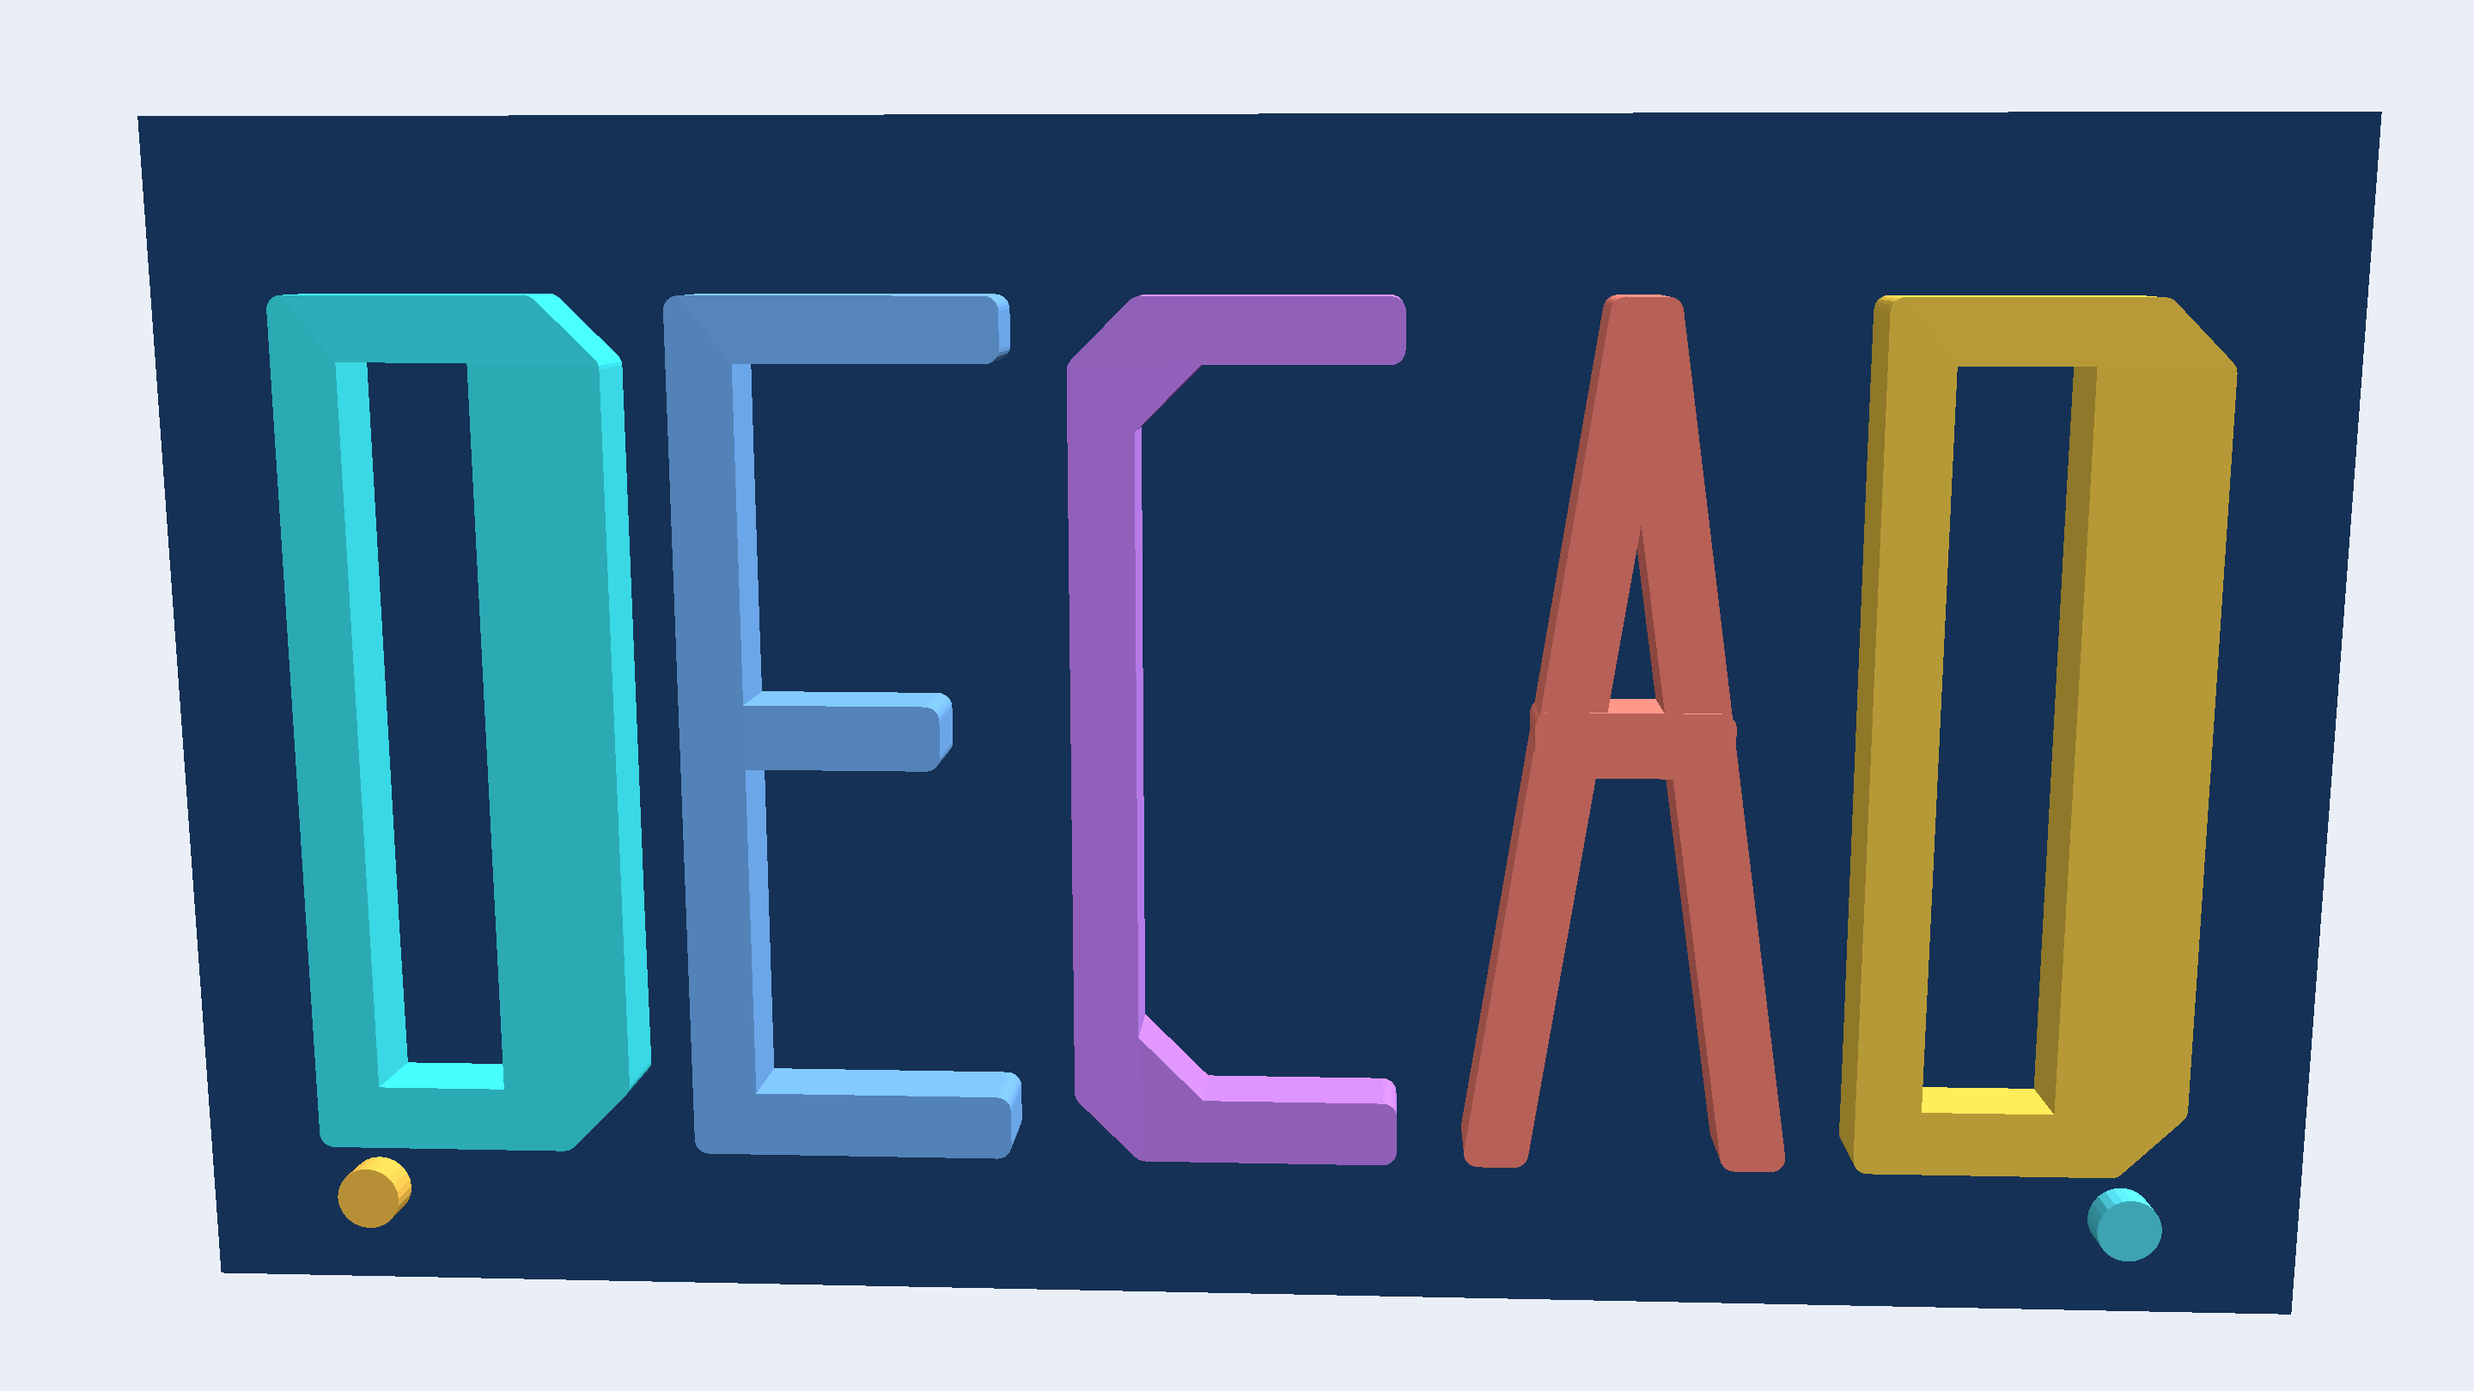
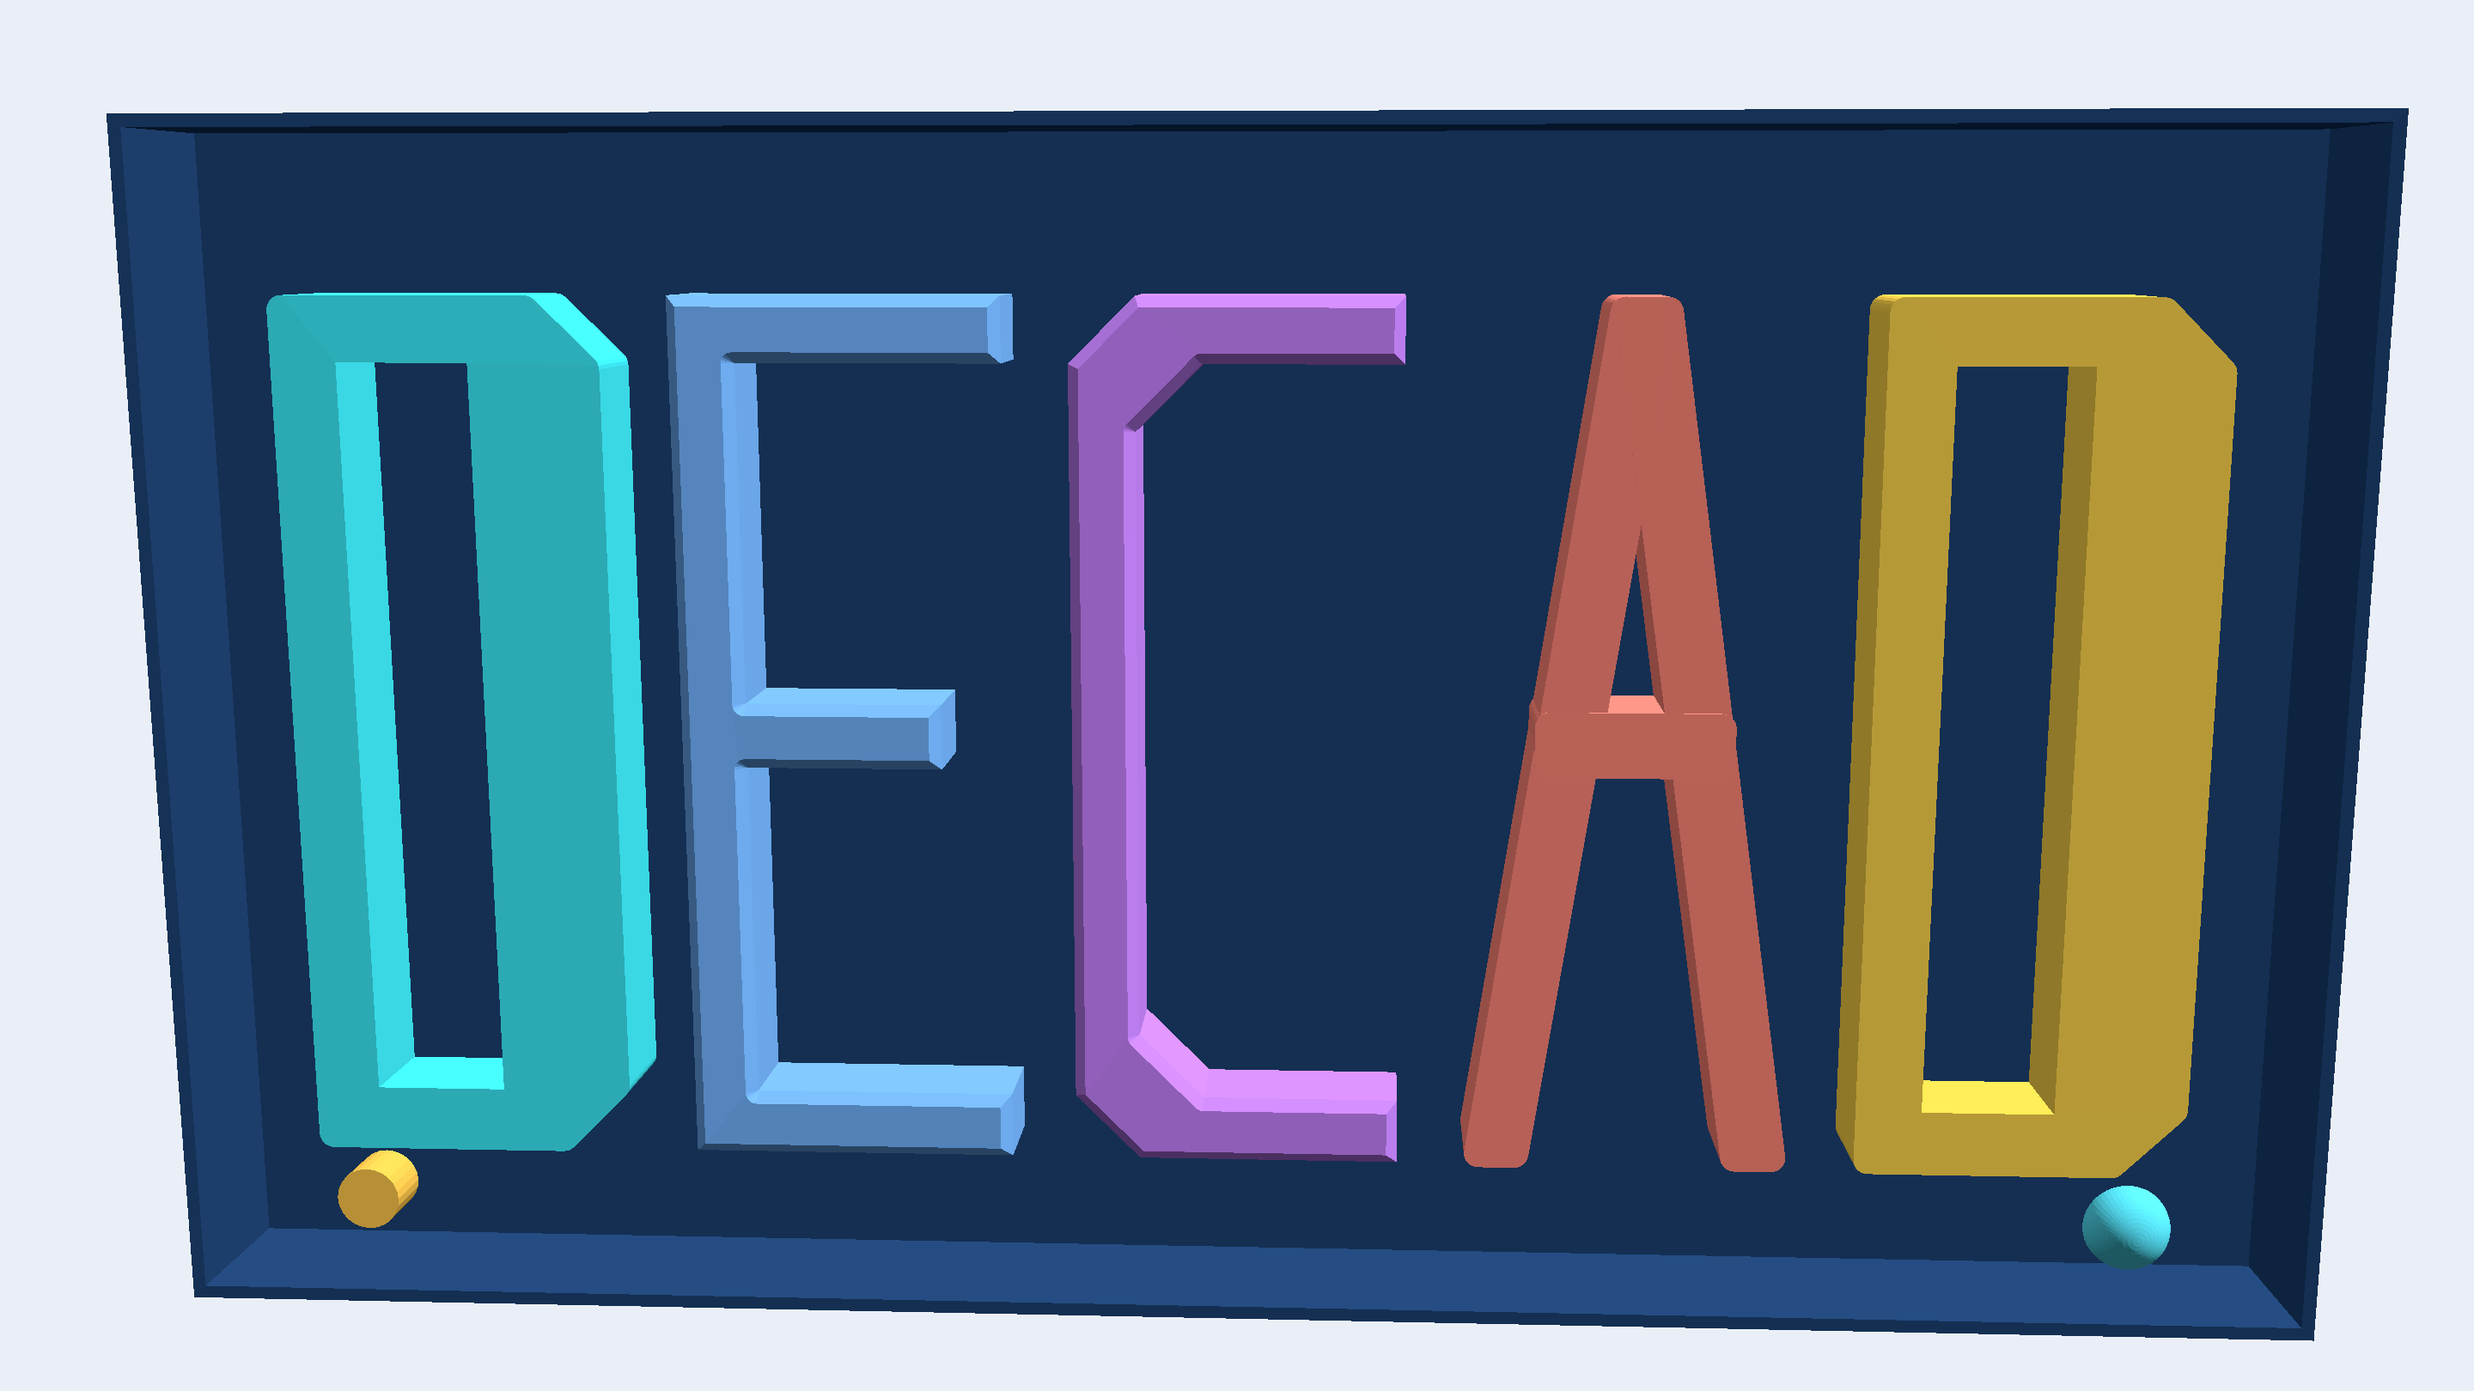
enrich the hero wordmark with more decad features (#322)
* enrich the hero wordmark with more decad features

* fix hero rail placement and the A letter overlap

* drop the swept rail from the hero image

diff --git a/_gallery/hero.go b/_gallery/hero.go
@@ -11,19 +11,51 @@ import (
 	"github.com/lestrrat-3d/units"
 )
 
-const letterFilletRadius = 2.0
+const (
+	letterFilletRadius = 2.0
+	// letterCapChamfer is the setback of the cap-loop bevel every letter's
+	// front face carries, well under half the 9mm stroke width so the bevel
+	// reads as a lead-in rather than eating the stroke.
+	letterCapChamfer = 1.5
+
+	// plateDepth is the backing plate's total thickness before shelling.
+	plateDepth = 12.0
+	// plateShellThickness is the wall Shell leaves once the plate's
+	// camera-facing cap is opened.
+	plateShellThickness = 1.8
+	// plateHalfDepth is the plate's front face position along Y (Along on
+	// its XZ sketch is -Y, so the face nearest the camera sits at -plateHalfDepth).
+	plateHalfDepth = plateDepth / 2
+
+	// studRadius is the revolved dome accent's radius.
+	studRadius = 6.0
+)
 
 type letter struct {
 	color  solidlens.Color
 	shapes [][][]point
+	// chamferCap is true for a letter whose shapes should get a cap-loop
+	// chamfer instead of a lateral fillet. It is a per-LETTER choice, not a
+	// per-shape one: A's three strokes (aLeft, aRight, aBar) are each a
+	// single, hole-free loop, but the crossbar's own rectangle overlaps each
+	// leg's trapezoid — both occupy the same X range at crossbar height AND
+	// the same Y depth, by the original (pre-hero-rework) design of these
+	// three shapes. Two bodies that already coincide there is not itself a
+	// defect; it only became visible once each stroke got its OWN
+	// independent cap-loop chamfer: the two bevelled cap faces are different
+	// sloped surfaces at that shared depth, so whichever one the renderer
+	// resolves as farther back shows a sliver of its slope past the nearer
+	// one's edge. A lateral fillet never touches the cap face's interior, so
+	// it never exposes this — the same reason D (a hole-bearing single
+	// shape) keeps a fillet instead of a chamfer.
+	chamferCap bool
 }
 
 // heroChordTolerance is the chord tolerance the hero shot tessellates at
 // unless -chord overrides it.
 const heroChordTolerance = 0.02
 
-// heroRender is the README's masthead: the wordmark itself is decad geometry,
-// each letter an extruded profile with its outside corners filleted.
+// heroRender is the README's masthead: the wordmark itself is decad geometry.
 func heroRender() imageRender {
 	return imageRender{
 		rel:      "hero.png",
@@ -33,38 +65,47 @@ func heroRender() imageRender {
 	}
 }
 
+// heroScene builds the masthead from five of decad's features rather than
+// extrude and fillet alone: the backing plate is a shelled shadow-box whose
+// rim carries a real wall thickness; "E" and "C" are extruded and have their
+// whole front face bevelled by a cap-loop chamfer, while "D" (an outer+inner
+// loop pair) and "A" (three separately overlapping strokes) are extruded and
+// have their outside corners filleted instead (see letter.chamferCap and
+// extrudeLetterLoops for why each keeps the fillet); and one accent is a
+// revolved dome rather than a plain extruded cylinder.
 func heroScene(ctx context.Context, chord units.Value) (solidlens.Scene, error) {
-	base, err := extrudeLoops(ctx, [][]point{rectangle(-151, -84, 151, 84)}, decad.Symmetric{D: units.Millimeters(3)}, chord)
+	base, err := heroPlate(ctx, chord)
 	if err != nil {
 		return solidlens.Scene{}, fmt.Errorf("build backing plate: %w", err)
 	}
 	models := []solidlens.Model{{Mesh: base, Material: solidlens.Matte(solidlens.RGB(0.015, 0.06, 0.18))}}
 
-	for _, item := range decadLetters() {
-		for _, shape := range item.shapes {
-			mesh, err := extrudeLetterLoops(ctx, shape, decad.Distance{D: units.Millimeters(14), Dir: decad.Along}, chord)
+	for li, item := range decadLetters() {
+		for si, shape := range item.shapes {
+			mesh, err := extrudeLetterLoops(ctx, shape, decad.Distance{D: units.Millimeters(14), Dir: decad.Along}, chord, item.chamferCap)
 			if err != nil {
-				return solidlens.Scene{}, fmt.Errorf("build letter: %w", err)
+				return solidlens.Scene{}, fmt.Errorf("build letter %d shape %d: %w", li, si, err)
 			}
 			models = append(models, solidlens.Model{Mesh: mesh, Material: solidlens.Matte(item.color)})
 		}
 	}
 
-	for _, accent := range []struct {
-		x, y, radius float64
-		color        solidlens.Color
-	}{
-		{-126, -70, 4.5, solidlens.RGB(1, 0.58, 0.08)},
-		{126, -70, 4.5, solidlens.RGB(0.1, 0.78, 0.95)},
-	} {
-		mesh, err := extrudeLoops(ctx, [][]point{circle(accent.x, accent.y, accent.radius, 24)}, decad.Distance{
-			D: units.Millimeters(8), Dir: decad.Along,
-		}, chord)
-		if err != nil {
-			return solidlens.Scene{}, fmt.Errorf("build accent: %w", err)
-		}
-		models = append(models, solidlens.Model{Mesh: mesh, Material: solidlens.Matte(accent.color)})
+	// The left accent stays a plain extruded peg; the right one is a
+	// revolved dome, so the masthead shows both an extrude and a revolve at
+	// the same small scale.
+	peg, err := extrudeLoops(ctx, [][]point{circle(-126, -70, 4.5, 24)}, decad.Distance{
+		D: units.Millimeters(8), Dir: decad.Along,
+	}, chord)
+	if err != nil {
+		return solidlens.Scene{}, fmt.Errorf("build peg accent: %w", err)
 	}
+	models = append(models, solidlens.Model{Mesh: peg, Material: solidlens.Matte(solidlens.RGB(1, 0.58, 0.08))})
+
+	dome, err := heroStud(ctx, 126, -70, studRadius, chord)
+	if err != nil {
+		return solidlens.Scene{}, fmt.Errorf("build dome accent: %w", err)
+	}
+	models = append(models, solidlens.Model{Mesh: dome, Material: solidlens.Matte(solidlens.RGB(0.1, 0.78, 0.95))})
 
 	return solidlens.Scene{
 		Camera: solidlens.Camera{
@@ -93,6 +134,35 @@ func heroScene(ctx context.Context, chord units.Value) (solidlens.Scene, error) 
 		}},
 		Background: backgroundColor,
 	}, nil
+}
+
+// heroPlate builds the backing plate as a shallow shadow-box: a solid slab
+// extruded from the wordmark's outline, then shelled through the cap facing
+// the camera so the plate's rim shows a real wall thickness instead of a flat
+// backdrop.
+func heroPlate(ctx context.Context, chord units.Value) (*decad.Mesh, error) {
+	w := sketch.NewWorld()
+	s, err := w.CreateSketch(w.XZ())
+	if err != nil {
+		return nil, err
+	}
+	profile, err := polylineProfile(ctx, s, [][]point{rectangle(-151, -84, 151, 84)})
+	if err != nil {
+		return nil, err
+	}
+	// Extrude has no context-aware variant; Solve above is the cancellable phase.
+	slab, err := decad.New().Extrude(s, profile, decad.Symmetric{D: units.Millimeters(plateDepth)}) //nolint:contextcheck
+	if err != nil {
+		return nil, err
+	}
+	// Facing(0,-1,0) is the cap nearest the camera (Along on this XZ sketch
+	// is -Y); opening it turns the slab into a shadow-box whose side walls
+	// and back keep a uniform 1.8mm thickness.
+	shelled, err := slab.Shell(ctx, decad.Faces(decad.Facing(r3.NewVec(0, -1, 0))), units.Millimeters(plateShellThickness))
+	if err != nil {
+		return nil, fmt.Errorf("shell backing plate: %w", err)
+	}
+	return shelled.Tessellate(ctx, chord, decad.WithVerification(decad.VerifyNone))
 }
 
 func decadLetters() []letter {
@@ -153,28 +223,16 @@ func decadLetters() []letter {
 	aBar := []point{{stroke, -stroke / 2}, {width - stroke, -stroke / 2}, {width - stroke, stroke / 2}, {stroke, stroke / 2}}
 
 	return []letter{
-		{color: solidlens.RGB(0.05, 0.85, 0.96), shapes: [][][]point{place(dOuter, dInner)}},
-		{color: solidlens.RGB(0.18, 0.47, 1), shapes: [][][]point{place(e)}},
-		{color: solidlens.RGB(0.58, 0.24, 1), shapes: [][][]point{place(c)}},
-		{color: solidlens.RGB(1, 0.25, 0.2), shapes: placeShapes([][]point{aLeft}, [][]point{aRight}, [][]point{aBar})},
-		{color: solidlens.RGB(1, 0.68, 0.08), shapes: [][][]point{place(dOuter, dInner)}},
+		{color: solidlens.RGB(0.05, 0.85, 0.96), shapes: [][][]point{place(dOuter, dInner)}, chamferCap: false},
+		{color: solidlens.RGB(0.18, 0.47, 1), shapes: [][][]point{place(e)}, chamferCap: true},
+		{color: solidlens.RGB(0.58, 0.24, 1), shapes: [][][]point{place(c)}, chamferCap: true},
+		{color: solidlens.RGB(1, 0.25, 0.2), shapes: placeShapes([][]point{aLeft}, [][]point{aRight}, [][]point{aBar}), chamferCap: false},
+		{color: solidlens.RGB(1, 0.68, 0.08), shapes: [][][]point{place(dOuter, dInner)}, chamferCap: false},
 	}
 }
 
 func extrudeLoops(ctx context.Context, loops [][]point, extent decad.Extent, chord units.Value) (*decad.Mesh, error) {
-	return extrudeLoopsWithFillet(ctx, loops, extent, 0, chord)
-}
-
-func extrudeLetterLoops(ctx context.Context, loops [][]point, extent decad.Extent, chord units.Value) (*decad.Mesh, error) {
-	return extrudeLoopsWithFillet(ctx, loops, extent, letterFilletRadius, chord)
-}
-
-func extrudeLoopsWithFillet(
-	ctx context.Context, loops [][]point, extent decad.Extent, filletRadius float64, chord units.Value,
-) (*decad.Mesh, error) {
 	w := sketch.NewWorld()
-	// XZ makes the wordmark face the camera; extrusion then gives each stroke
-	// depth along Y without relying on a steep viewing angle.
 	s, err := w.CreateSketch(w.XZ())
 	if err != nil {
 		return nil, err
@@ -188,18 +246,102 @@ func extrudeLoopsWithFillet(
 	if err != nil {
 		return nil, err
 	}
-	if filletRadius > 0 {
+	// This mesh is drawn, never proven: VerifyNone skips the facet-contact
+	// audit's own work ceiling, which a fine chord tolerance can otherwise hit.
+	return body.Tessellate(ctx, chord, decad.WithVerification(decad.VerifyNone))
+}
+
+// extrudeLetterLoops extrudes one letter shape, then either fillets its
+// outside vertical corners (chamferCap false) or bevels its whole front face
+// with a cap-loop chamfer (chamferCap true) — the caller decides per LETTER,
+// not per shape; see letter.chamferCap for why D and A both keep the fillet.
+// Chamfering D's own cap loop (an outer+inner loop pair) panics decad's own
+// cap-blend tessellator regardless (it indexes past a band slice,
+// decad-side), so D's shape could not take a chamfer even loop-by-loop.
+// Fillet-then-chamfer on a hole-free shape was tried too — it does not
+// panic, but every setback tried (0.3mm through 1.5mm) hit "the offset
+// changes the section's topology; a trimmed-offset kernel is not available"
+// on at least one letter, so a chamfered shape goes straight from extrude to
+// chamfer with no fillet.
+func extrudeLetterLoops(
+	ctx context.Context, loops [][]point, extent decad.Extent, chord units.Value, chamferCap bool,
+) (*decad.Mesh, error) {
+	w := sketch.NewWorld()
+	// XZ makes the wordmark face the camera; extrusion then gives each stroke
+	// depth along Y without relying on a steep viewing angle.
+	s, err := w.CreateSketch(w.XZ())
+	if err != nil {
+		return nil, err
+	}
+	profile, err := polylineProfile(ctx, s, loops)
+	if err != nil {
+		return nil, err
+	}
+	// Extrude has no context-aware variant; Solve above is the cancellable phase.
+	extruded, err := decad.New().Extrude(s, profile, extent) //nolint:contextcheck
+	if err != nil {
+		return nil, err
+	}
+	if !chamferCap {
 		// Round the exposed outside corners while keeping the counters and
 		// interior cut-ins crisp for a legible wordmark.
-		body, err = body.Fillet(ctx, decad.Edges(
+		filleted, err := extruded.Fillet(ctx, decad.Edges(
 			decad.ParallelTo(r3.NewVec(0, 1, 0)),
 			decad.Convex(),
-		), units.Millimeters(filletRadius))
+		), units.Millimeters(letterFilletRadius))
 		if err != nil {
 			return nil, fmt.Errorf("fillet extruded loops: %w", err)
 		}
+		return filleted.Tessellate(ctx, chord, decad.WithVerification(decad.VerifyNone))
+	}
+	beveled, err := extruded.Chamfer(ctx, decad.Edges(decad.CreatedBy(decad.CapEnd(extruded))), units.Millimeters(letterCapChamfer))
+	if err != nil {
+		return nil, fmt.Errorf("chamfer letter cap: %w", err)
 	}
 	// These meshes are drawn, never proven: VerifyNone skips the facet-contact
 	// audit's own work ceiling, which a fine chord tolerance can otherwise hit.
-	return body.Tessellate(ctx, chord, decad.WithVerification(decad.VerifyNone))
+	return beveled.Tessellate(ctx, chord, decad.WithVerification(decad.VerifyNone))
+}
+
+// heroStud revolves a quarter-disc profile — an on-axis base point, its rim,
+// and the arc between the rim and the on-axis tip — into a solid dome
+// standing on the plate's front face at plane-local (x, z). Full 360°, the
+// profile's own arc is a quarter circle, so the sweep is a hemisphere rather
+// than surfaceShot's full-sphere dish wall.
+func heroStud(ctx context.Context, x, z, radius float64, chord units.Value) (*decad.Mesh, error) {
+	w := sketch.NewWorld()
+	// Offsetting the YZ datum by x puts the sketch's own U axis on world Y,
+	// with the plane positioned at world X=x — the axis this stud revolves
+	// about needs to run along Y, not the vertical Z axis revolveShot and
+	// surfaceShot both revolve about.
+	plane, err := w.CreateOffsetPlane(w.YZ(), x)
+	if err != nil {
+		return nil, err
+	}
+	s, err := w.CreateSketch(plane)
+	if err != nil {
+		return nil, err
+	}
+	const base = -plateHalfDepth // flush with the shelled plate's open front
+	center := s.CreatePoint(base, z)
+	s.Fix(center)
+	rim := s.CreatePoint(base, z+radius)
+	tip := s.CreatePoint(base-radius, z)
+	s.CreateLine(center, rim)
+	s.CreateArc(center, rim, tip)
+	s.CreateLine(tip, center)
+	if _, err := s.Solve(ctx); err != nil {
+		return nil, err
+	}
+	profile, err := validProfile(s)
+	if err != nil {
+		return nil, err
+	}
+	axis := decad.SketchLine{Start: decad.Point2{U: 0, V: z}, End: decad.Point2{U: 1, V: z}}
+	// Revolve has no context-aware variant; Solve above is the cancellable phase.
+	dome, err := decad.New().Revolve(s, profile, axis, decad.FullRevolution{}) //nolint:contextcheck
+	if err != nil {
+		return nil, fmt.Errorf("revolve the stud: %w", err)
+	}
+	return dome.Tessellate(ctx, chord, decad.WithVerification(decad.VerifyNone))
 }
